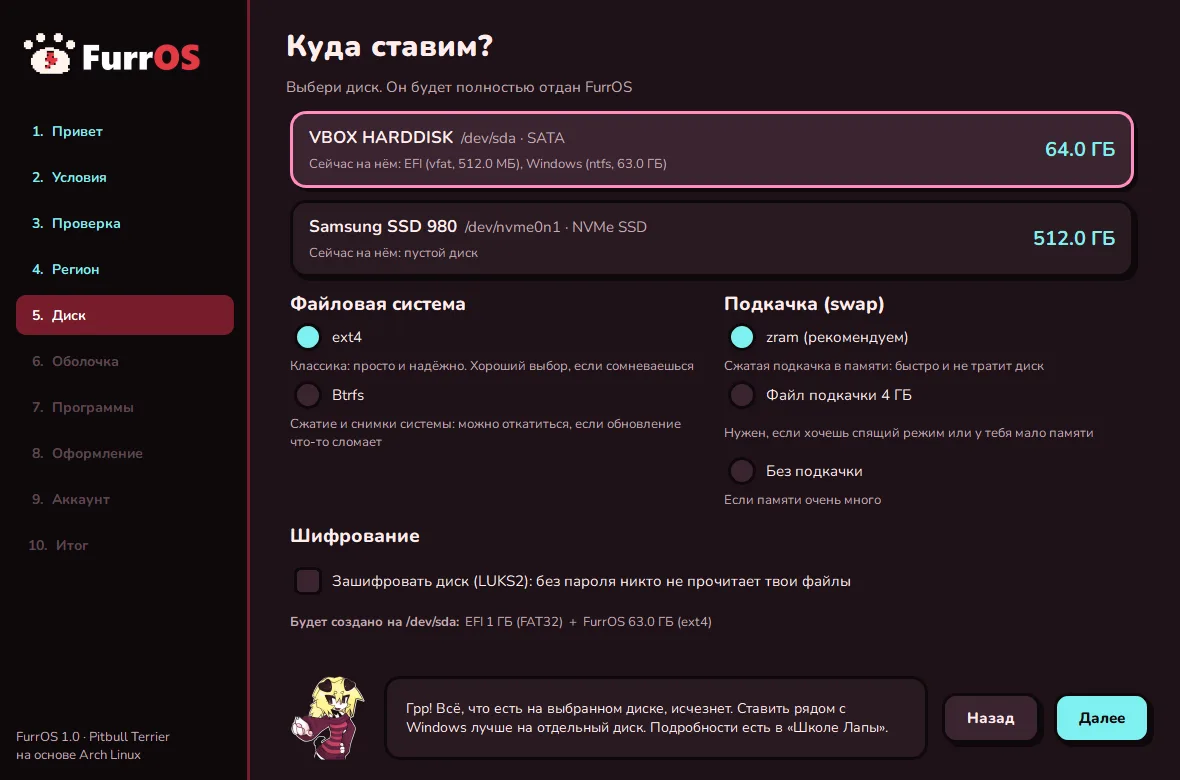
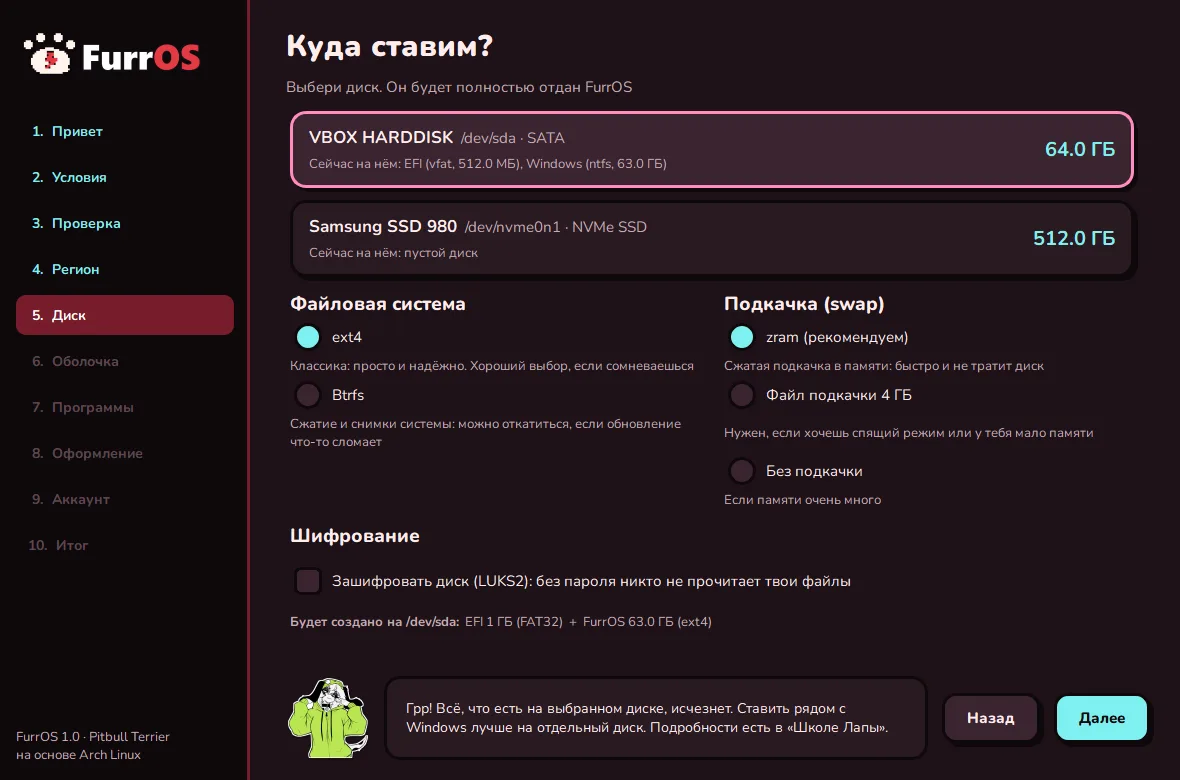
Revert "Mascot is now Taroyadda; Lapa stays on wallpapers and in Lapa's School. New installer screenshots"
This reverts commit c3554c2c97dd95bdf62ff0f7552191bce2db607d.

Changed region(s): [[0.2441, 0.8615, 0.3356, 0.9846]]

diff --git a/README.md b/README.md
@@ -14,7 +14,7 @@
 [![YouTube](https://img.shields.io/badge/YouTube-@FurrOSLinux-E23A44?style=for-the-badge&logo=youtube&logoColor=white)](https://www.youtube.com/@FurrOSLinux)
 [![Сайт](https://img.shields.io/badge/сайт-furros.xyz-7FF0F0?style=for-the-badge)](https://furros.xyz/)
 
-17 рабочих столов на выбор · установщик с Тароядой · Школа Лапы · живые обои · без слежки и телеметрии
+17 рабочих столов на выбор · установщик с Лапой · Школа Лапы · живые обои · без слежки и телеметрии
 
 <img src="docs/hero-kde.webp" alt="Рабочий стол FurrOS с KDE Plasma" width="760" />
 
@@ -39,7 +39,7 @@
 ## Что будет в FurrOS
 
 - **17 рабочих столов** — KDE, GNOME, COSMIC, Hyprland, Niri, Sway, i3 и другие. Все в едином стиле FurrOS.
-- **Установщик с Тароядой** — графическая установка на 4 языках (RU, EN, PL, ES). Тарояда подсказывает на каждом шаге.
+- **Установщик с Лапой** — графическая установка на 4 языках (RU, EN, PL, ES). Лапа подсказывает на каждом шаге.
 - **Школа Лапы** — встроенное обучение: 14 глав, тесты и терминал-песочница. Для тех, кто первый раз на Linux.
 - **Живые обои** — анимированные обои на рабочем столе в KDE, Hyprland, Sway и Niri.
 - **На основе Arch** — rolling-release, свежие версии программ, тысячи пакетов из репозиториев и AUR.
@@ -114,7 +114,7 @@
 
 ## Арт и права
 
-FurrOS — некоммерческий фанатский проект. Маскот **Тарояда**, **Лапа** (далматинка) и другие персонажи, а также арт
+FurrOS — некоммерческий фанатский проект. **Лапа** (далматинка) и другие персонажи, а также арт
 на скриншотах рабочих столов и обоев принадлежат их авторам и используются в ознакомительных целях.
 
 🎨 Художники, чьи арты используются в FurrOS: **lapalilpup**, **taroyadda**, **sashley**, **crispytyph**. Спасибо! 🐾

diff --git a/README.es.md b/README.es.md
@@ -14,7 +14,7 @@
 [![YouTube](https://img.shields.io/badge/YouTube-@FurrOSLinux-E23A44?style=for-the-badge&logo=youtube&logoColor=white)](https://www.youtube.com/@FurrOSLinux)
 [![Web](https://img.shields.io/badge/web-furros.xyz-7FF0F0?style=for-the-badge)](https://furros.xyz/)
 
-17 escritorios para elegir · instalador con Taroyadda · la Escuela de Lapa · fondos animados · sin rastreo ni telemetría
+17 escritorios para elegir · instalador con Lapa · la Escuela de Lapa · fondos animados · sin rastreo ni telemetría
 
 <img src="docs/hero-kde.webp" alt="Escritorio de FurrOS con KDE Plasma" width="760" />
 
@@ -39,7 +39,7 @@ Para enterarte el primero cuando salga:
 ## Qué trae FurrOS
 
 - **17 escritorios** — KDE, GNOME, COSMIC, Hyprland, Niri, Sway, i3 y más. Todos con el mismo estilo FurrOS.
-- **Instalador con Taroyadda** — instalación gráfica en 4 idiomas (RU, EN, PL, ES). Taroyadda te ayuda en cada paso.
+- **Instalador con Lapa** — instalación gráfica en 4 idiomas (RU, EN, PL, ES). Lapa te ayuda en cada paso.
 - **La Escuela de Lapa** — tutorial integrado: 14 capítulos, cuestionarios y un terminal sandbox. Para quien usa Linux por primera vez.
 - **Fondos animados** — fondos en movimiento directamente en el escritorio en KDE, Hyprland, Sway y Niri.
 - **Basado en Arch** — rolling release, software actualizado, miles de paquetes de los repositorios y del AUR.
@@ -114,7 +114,7 @@ Cada uno tiene el estilo FurrOS justo después de instalar.
 
 ## Arte y derechos
 
-FurrOS es un proyecto de fans sin fines comerciales. La mascota **Taroyadda**, **Lapa** (una dálmata) y los demás personajes, así como el arte
+FurrOS es un proyecto de fans sin fines comerciales. **Lapa** (una dálmata) y los demás personajes, así como el arte
 en las capturas de escritorios y fondos, pertenecen a sus autores y se muestran solo a modo ilustrativo.
 
 🎨 Artistas cuyo arte se usa en FurrOS: **lapalilpup**, **taroyadda**, **sashley**, **crispytyph**. ¡Gracias! 🐾

diff --git a/README.en.md b/README.en.md
@@ -14,7 +14,7 @@
 [![YouTube](https://img.shields.io/badge/YouTube-@FurrOSLinux-E23A44?style=for-the-badge&logo=youtube&logoColor=white)](https://www.youtube.com/@FurrOSLinux)
 [![Website](https://img.shields.io/badge/website-furros.xyz-7FF0F0?style=for-the-badge)](https://furros.xyz/)
 
-17 desktops to choose from · an installer with Taroyadda · Lapa's School · live wallpapers · no tracking, no telemetry
+17 desktops to choose from · an installer with Lapa · Lapa's School · live wallpapers · no tracking, no telemetry
 
 <img src="docs/hero-kde.webp" alt="FurrOS desktop with KDE Plasma" width="760" />
 
@@ -39,7 +39,7 @@ Want to know first when it's out:
 ## What's in FurrOS
 
 - **17 desktops** — KDE, GNOME, COSMIC, Hyprland, Niri, Sway, i3 and more. All in one FurrOS style.
-- **Installer with Taroyadda** — graphical install in 4 languages (RU, EN, PL, ES). Taroyadda gives tips at every step.
+- **Installer with Lapa** — graphical install in 4 languages (RU, EN, PL, ES). Lapa gives tips at every step.
 - **Lapa's School** — built-in tutorial: 14 chapters, quizzes and a sandbox terminal. For anyone new to Linux.
 - **Live wallpapers** — animated wallpapers right on the desktop in KDE, Hyprland, Sway and Niri.
 - **Based on Arch** — rolling release, fresh software, thousands of packages from the repositories and the AUR.
@@ -114,7 +114,7 @@ Each one is styled as FurrOS right after installation.
 
 ## Art and rights
 
-FurrOS is a non-commercial fan project. The mascot **Taroyadda**, **Lapa** (a dalmatian) and the other characters, as well as the art
+FurrOS is a non-commercial fan project. **Lapa** (a dalmatian) and the other characters, as well as the art
 in the desktop and wallpaper screenshots, belong to their authors and are shown for illustration only.
 
 🎨 Artists whose art is used in FurrOS: **lapalilpup**, **taroyadda**, **sashley**, **crispytyph**. Thank you! 🐾

diff --git a/README.pl.md b/README.pl.md
@@ -14,7 +14,7 @@
 [![YouTube](https://img.shields.io/badge/YouTube-@FurrOSLinux-E23A44?style=for-the-badge&logo=youtube&logoColor=white)](https://www.youtube.com/@FurrOSLinux)
 [![Strona](https://img.shields.io/badge/strona-furros.xyz-7FF0F0?style=for-the-badge)](https://furros.xyz/)
 
-17 pulpitów do wyboru · instalator z Taroyaddą · Szkoła Lapy · animowane tapety · bez śledzenia i telemetrii
+17 pulpitów do wyboru · instalator z Lapą · Szkoła Lapy · animowane tapety · bez śledzenia i telemetrii
 
 <img src="docs/hero-kde.webp" alt="Pulpit FurrOS z KDE Plasma" width="760" />
 
@@ -39,7 +39,7 @@ Chcesz dowiedzieć się pierwszy o premierze:
 ## Co jest w FurrOS
 
 - **17 pulpitów** — KDE, GNOME, COSMIC, Hyprland, Niri, Sway, i3 i inne. Wszystkie w jednym stylu FurrOS.
-- **Instalator z Taroyaddą** — graficzna instalacja w 4 językach (RU, EN, PL, ES). Taroyadda podpowiada na każdym kroku.
+- **Instalator z Lapą** — graficzna instalacja w 4 językach (RU, EN, PL, ES). Lapa podpowiada na każdym kroku.
 - **Szkoła Lapy** — wbudowany samouczek: 14 rozdziałów, quizy i terminal-piaskownica. Dla tych, którzy pierwszy raz są na Linuksie.
 - **Animowane tapety** — ruchome tapety prosto na pulpicie w KDE, Hyprland, Sway i Niri.
 - **Oparty na Archu** — rolling release, świeże wersje programów, tysiące pakietów z repozytoriów i AUR.
@@ -114,7 +114,7 @@ Każdy ma styl FurrOS od razu po instalacji.
 
 ## Grafika i prawa
 
-FurrOS to niekomercyjny projekt fanowski. Maskotka **Taroyadda**, **Lapa** (dalmatynka) i inne postacie, a także grafiki
+FurrOS to niekomercyjny projekt fanowski. **Lapa** (dalmatynka) i inne postacie, a także grafiki
 na zrzutach pulpitów i tapet należą do ich autorów i są pokazane wyłącznie poglądowo.
 
 🎨 Artyści, których prace są użyte w FurrOS: **lapalilpup**, **taroyadda**, **sashley**, **crispytyph**. Dziękujemy! 🐾
